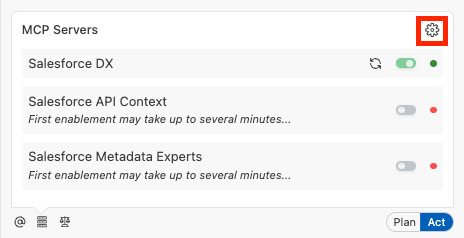
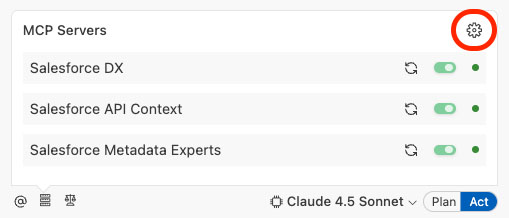
feat: MCP servers

diff --git a/docs/1-launch-and-setup.md b/docs/1-launch-and-setup.md
@@ -6,10 +6,35 @@
    <a href="2-vibe-code-a-component.md">Next Exercise ▶</a>
 </p>
 
-In this exercise, you'll launch Agentforce Vibes and configure it for the workshop.
+In this exercise, you'll enable Salesforce hosted MCP servers, launch Agentforce Vibes and configure it for the workshop.
 
 
-## Step 1: Launch Agentforce Vibes IDE
+## Step 1: Enable MCP Service (Beta)
+
+1. From **Setup**, in the **Quick Find** box, enter `User Interface Settings`, then select **User Interface Settings**.
+
+2. Locate **Enable MCP Service (Beta)** and turn it on.
+
+3. Click **Save**.
+
+   > [!NOTE]
+   > The MCP Service is currently in Beta. Enabling it allows your org to host MCP endpoints that AI clients and agents can call using a standardized, governed protocol.
+
+## Step 2: Activate Salesforce MCP Servers
+
+1. From **Setup**, in the **Quick Find** box, enter `MCP Servers`, then select **MCP Servers**.
+
+2. Click **Salesforce Servers**.
+
+3. Open the **sobject-all** MCP server and click **Activate**.
+
+4. Open the **salesforce-api-context** MCP server and click **Activate**.
+
+   > [!NOTE]
+   > Activating these servers exposes Salesforce object data and API context to your MCP clients. Both servers are required for a complete MCP experience.
+
+
+## Step 3: Launch Agentforce Vibes IDE
 
 1. Open the **Setup Menu** and click **Agentforce Vibes**.
 
@@ -32,13 +57,13 @@ In this exercise, you'll launch Agentforce Vibes and configure it for the worksh
    ![Screenshot showing a prompt to accept terms before enabling Agentforce Vibes](https://raw.githubusercontent.com/pozil/agentforce-vibes-advanced-workshop/main/assets/1-meet-agentforce.jpg)
 
 
-### Step 2: Update the Salesforce DX MCP Servers
+### Step 4: Enable the Salesforce MCP Servers
 
 1. In the Agentforce Vibes Sidebar, Click **Manage MCP Servers**.
 
    ![Screenshot showing how to disable MCP servers](../assets/1-manage-mcp-servers.jpg)
 
-2. Toggle off the **Salesforce API Context** and **Salesforce Metadata Experts** MCP servers. We will only use the Salesforce DX server for the workshop.
+2. Toggle on the **Salesforce API Context** and **Salesforce Metadata Experts** MCP servers.
 
    ![Screenshot showing how to disable MCP servers](../assets/1-disable-mcp-servers.jpg)
 
@@ -51,7 +76,7 @@ In this exercise, you'll launch Agentforce Vibes and configure it for the worksh
    ![Screenshot showing the Salesforce DX MCP server tools](../assets/1-salesforce-dx-tools.jpg)
 
 
-## Step 3: Configure safe commands
+## Step 5: Configure safe commands
 
 1. From the **Agentforce Vibes Sidebar**, click **Auto-approve: Read, Edit, Safe Commands, MCP**
 
